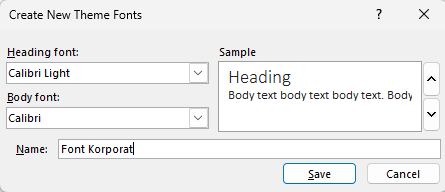
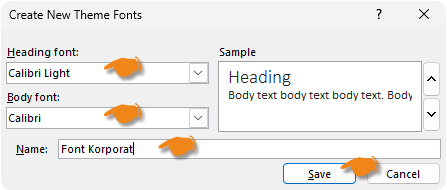
M

diff --git a/materi-powerpoint.html b/materi-powerpoint.html
@@ -2535,6 +2535,9 @@
                                         Contoh
                                         Gambar</a>
                                     </div>
+                                    <div class="my-3">
+                                  <img class="img-fluid shadow rounded" src="assets/img/Insert-Pictures2.png" alt="">
+                                </div>
                                   </li>
                                   <li>
                                     Posisikan di <strong>kanan atas</strong> Slide
@@ -2601,7 +2604,7 @@
                                 Heading: <strong>Calibri Light</strong>.
                               </li>
                               <li>Body: <strong>Calibri</strong>.</li>
-                              <li>Beri nama: "Font Korporat" → Save.
+                              <li>Beri nama: "<strong>Font Korporat</strong>" → <strong>Save</strong>.
                                 <div class="my-3">
                                   <img src="assets/img/atur-font-korporat.png" alt="" class="img-fluid shadow rounded">
                                 </div>
